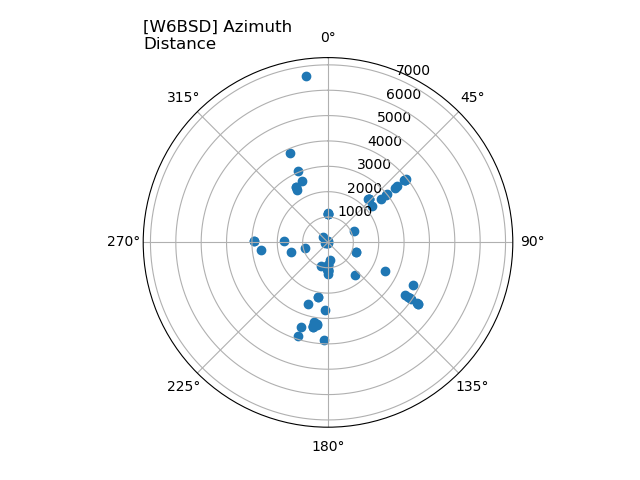
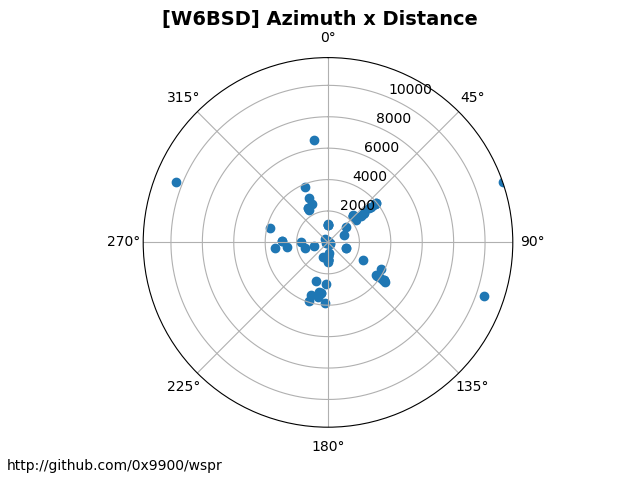
reject outliers magnitude

diff --git a/leaf.py b/leaf.py
@@ -73,7 +73,7 @@ def download():
   logging.info('Downloaded %d records', len(data))
   return [WsprData(**d) for d in data]
 
-def reject_outliers(data, magnitude=1.2):
+def reject_outliers(data, magnitude=1.5):
   q25, q75 = np.percentile(data, [25, 75])
   iqr = q75 - q25
 
